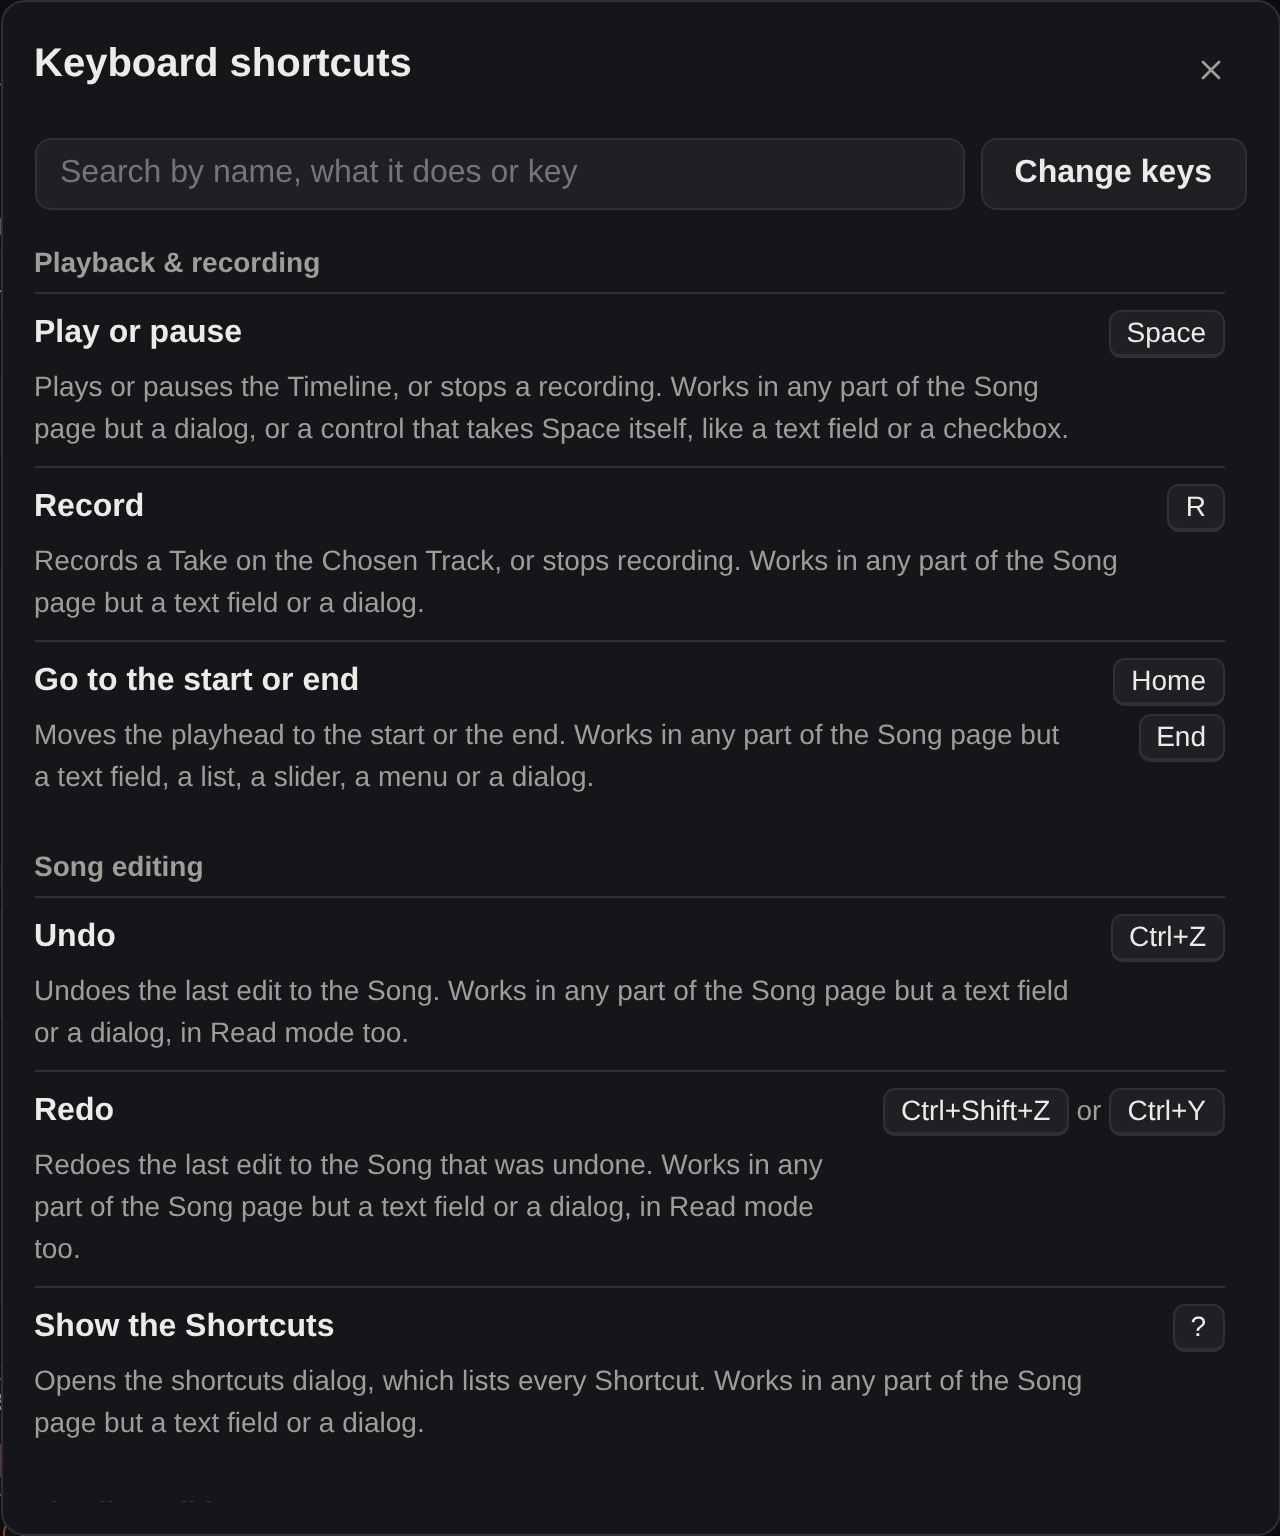
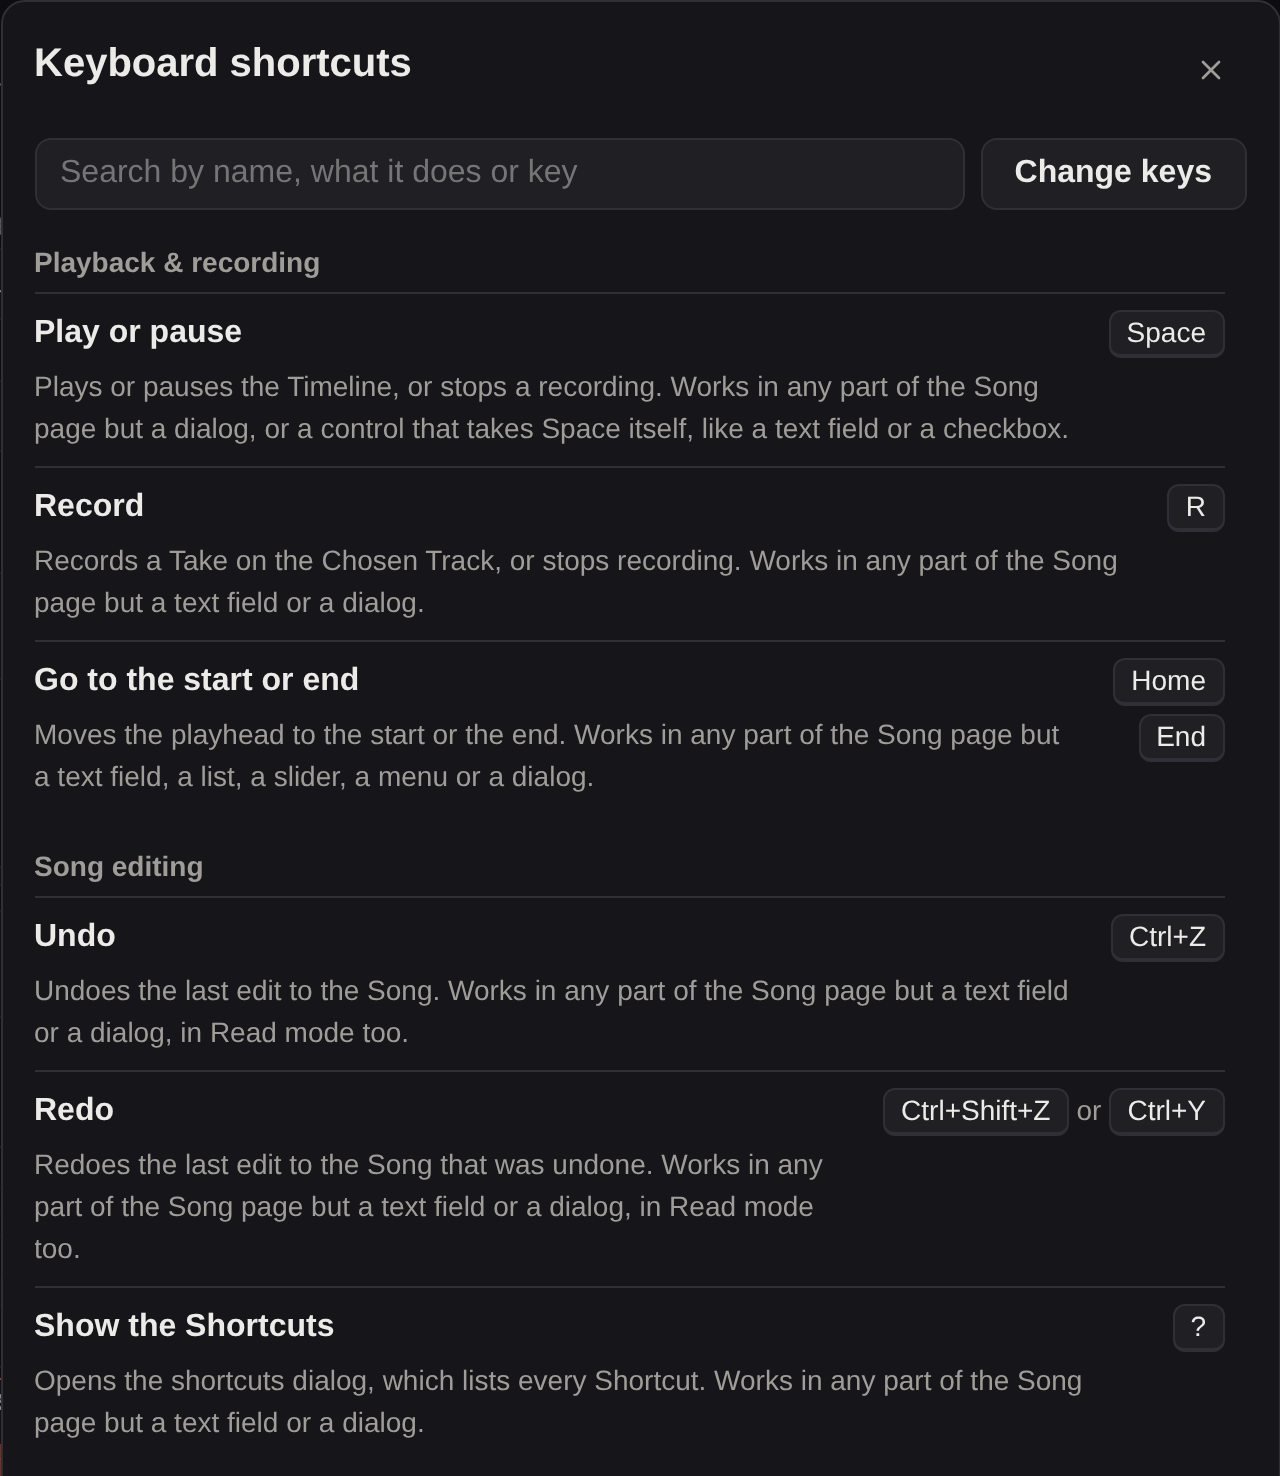
Crop the shortcuts still above a cut-off group, and drop Esc from the refused keys
A plain Esc cancels choosing a key, so listing it as refused read as a
contradiction. The still stops above the first group the list's scroll
cuts off, and the alt text calls it the shortcuts list, as Settings does.

diff --git a/docs/screenshots/README.md b/docs/screenshots/README.md
@@ -13,7 +13,7 @@ The screenshots in the README and on the docs site, `docs/web/`, taken in the da
 | `backups-labelled.png` | Settings' Backups holding the demo Backup, numbered: Scheduled Backups, Upload, New Backup, the Backup and Restore |
 | `song-list.png` | The Songs page on desktop: both Folders, then the Songs in none, down to just below the list |
 | `chords-look-up.png` | The Chords page's Look up with Cmaj7 typed, in standard tuning: its notes and first page of Voicings, best first |
-| `shortcuts-sheet.png` | The shortcuts sheet on the hero Song, opened with ?, down to its first few Shortcuts at their default keys |
+| `shortcuts-sheet.png` | The shortcuts sheet on the hero Song, opened with ?, down to its first few Shortcuts at their default keys, above the first group its scroll cuts off |
 | `phone-song-list.png` | The Songs page on a phone: both Folders, then the Songs in none |
 | `phone-timeline.png` | The hero Song on a phone held sideways, the Timeline filling the screen |
 | `phone-lyric-sheet.png` | The hero Song in Read mode on a phone                          |

diff --git a/docs/web/settings.md b/docs/web/settings.md
@@ -43,6 +43,6 @@ Under the settings, the card says when the last Scheduled Backup was made, that 
 
 In **Settings → Shortcuts**, open a shortcut. Click one of its keys and press the one you want, **Add key** to give it another, or remove a key with its ×. Esc cancels. A mouse shortcut, like Ctrl+click or Shift+drag, keeps its click, drag or scroll: choose which of Ctrl, Alt and Shift you hold with it, at least one.
 
-A key another shortcut already has is refused, with a link to that shortcut so you can free the key there first. So are keys the browser or the page needs, like Tab, Esc or Ctrl+W.
+A key another shortcut already has is refused, with a link to that shortcut so you can free the key there first. So are keys the browser or the page needs, like Tab or Ctrl+W.
 
 **Reset** puts one shortcut back, and **Reset to defaults** puts them all back. Your keys are kept on each device, so each keyboard you use can have its own.

diff --git a/docs/web/features.md b/docs/web/features.md
@@ -171,7 +171,7 @@ If you know an input's latency already, you can **Type it** in instead, though m
 
 On a song's page, press **?**, or the keyboard button by Write and Read, to see every shortcut. Type in the search at its top to find one by what it does or by its keys, like "split" or "Space".
 
-<img src="@screenshots/shortcuts-sheet.png" alt="The shortcuts sheet: a search and Change keys at its top, then each shortcut with what it does, where it works and its keys">
+<img src="@screenshots/shortcuts-sheet.png" alt="The shortcuts list: a search and Change keys at its top, then each shortcut with what it does, where it works and its keys">
 
 Hold ← or → on the ruler to scan the song, faster with Shift.
 
